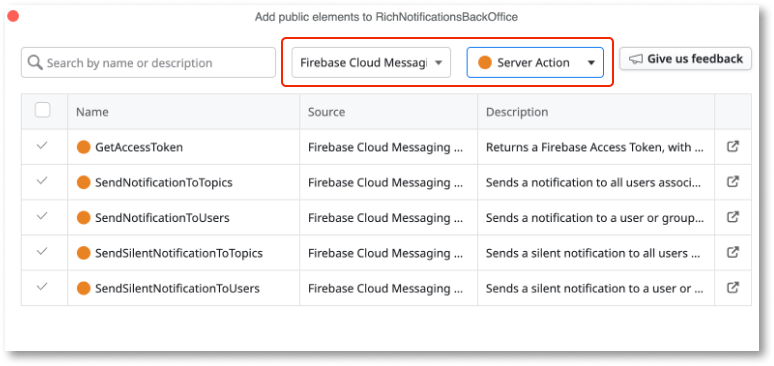
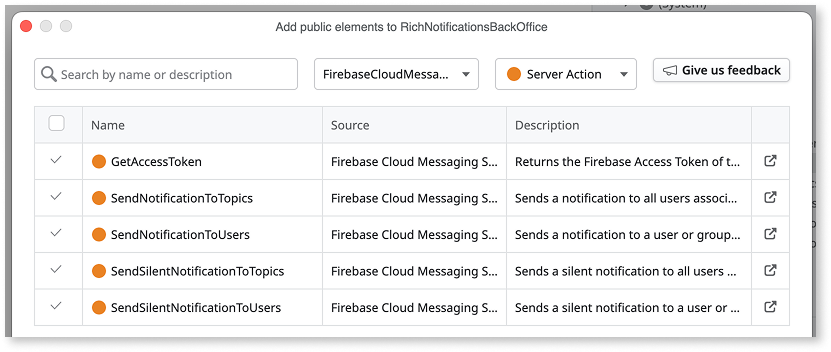
TK-19368 feat: add info about new Firebase Cloud Messaging Server Actions library

diff --git a/src/eap/integration-with-systems/mobile-plugins/firebase-plugin/firebase-cloud-messaging-plugin-server-action.md b/src/eap/integration-with-systems/mobile-plugins/firebase-plugin/firebase-cloud-messaging-plugin-server-action.md
@@ -1,10 +1,10 @@
 ---
-summary: Learn how to implement and manage Firebase Cloud Messaging in OutSystems Developer Cloud (ODC) for enhanced mobile app notifications.
+summary: Learn how to implement and manage Firebase Cloud Messaging in OutSystems Developer Cloud (ODC) for mobile app notifications.
 tags: firebase, notifications, mobile app development, push notifications, plugin integration
 locale: en-us
 guid: a8f7486e-a655-4da7-bed6-37d6867166b2
 app_type: mobile apps
-figma: https://www.figma.com/file/6G4tyYswfWPn5uJPDlBpvp/Building-apps?type=design&node-id=5002%3A165&mode=design&t=qrb6BRX1TGRFDKu7-1
+figma: https://www.figma.com/design/6G4tyYswfWPn5uJPDlBpvp/Building-apps?node-id=5002-165
 platform-version: odc
 audience:
   - mobile developers
@@ -21,31 +21,27 @@ coverage-type:
 
 <div class="info" markdown="1">
 
-This article applies only to Firebase Cloud Messaging plugin version 1.0.0 and newer. The newer versions use [server actions](#server-actions-reference) to manage the notifications.
+This article applies only to Firebase Cloud Messaging plugin version 1.0.0 and newer. The newer versions use [server actions](#server-actions-reference) to manage the notifications. From plugin version `3.0.0` onwards, the server actions are no longer part of the plugin. They have been moved to a separate library called **Firebase Cloud Messaging Server Actions**, available on Forge.
 
-If you are still using Firebase Cloud Messaging plugin version 0.1.2 and older, OutSystems recommends that you migrate to version 1.0.0 and newer by June 2024.
+If you are still using Firebase Cloud Messaging plugin version 0.1.2 and older, OutSystems recommends that you migrate to version 1.0.0 and newer.
 
 </div>
 
-The [Firebase Cloud Messaging plugin](https://www.outsystems.com/forge/component-overview/12174/cloud-messaging-plugin-firebase) allows you to set a notification experience that starts the Firebase cross-platform messaging solution. This plugin lets you send normal and silent notifications to your mobile app users. Normal notifications can include customizable actions and sounds.
-
-Normal notifications have a UI that displays visual and auditory cues. The cues either display in the app's notifications area or in the app's scope. Silent notifications don't display any visual cues. Notifications can deliver a data package to the app (called extra data) in the form of a key-value pairs list.
-
-OutSystems also has notification features you can use to create custom actions and custom sounds.
+The **Firebase Cloud Messaging plugin** allows you to set a notification experience that starts the Firebase cross-platform messaging solution. This plugin lets you send normal and silent notifications to your mobile app users. Normal notifications can include customizable actions and sounds.
 
 <div class="info" markdown="1">
 
-You can install the Firebase Cloud Messaging Plugin from the Forge in ODC Portal.
+You can install the Firebase Cloud Messaging plugin from the Forge in ODC Portal.
 
 </div>
 
-Normal notifications have a UI that displays visual and auditory cues. The cues either display in the notifications area of the app or in the scope of the app. Silent notifications don't display any visual cues. Notifications can deliver a data package to the app (called extra data) in the form of a key-value pairs list.
+Normal notifications have a UI that displays visual and auditory cues. The cues either display in the notifications area of the app or in the scope of the app. Silent notifications don't display any visual cues. Notifications can deliver a data package to the app (called extra data). This data takes the form of a key-value pairs list.
 
 OutSystems also has notification features you can use to create custom actions and custom sounds.  
 
 Following is a high-level process describing how to implement and manage the notifications of your OutSystems app.
 
-1. Use the **Firebase Cloud Messaging Plugin’s Server Actions** to set up a back-end notification service.
+1. Use the **Firebase Cloud Messaging Server Actions** library to set up a back-end notification service.
 
 1. Use the **Firebase Cloud Messaging Plugin's Client Actions** to implement basic notification functions in your app.
 
@@ -79,7 +75,7 @@ This sample app shows you how to do the following:
 
 The following steps describe how to create a back-end notification service and how to prepare a mobile app to respond with push notifications:
 
-1. [Set up a back-end notification service using the send Notifications Server Actions](#set-up-a-back-end-notification-service).
+1. [Set up a back-end notification service using the Firebase Cloud Messaging Server Actions library](#set-up-a-back-end-notification-service).
 
 1. [Enable basic notification functions in your app using the plugin's actions](#enable-basic-notification-functions-in-your-app).
 
@@ -101,23 +97,20 @@ The following steps describe how to create a back-end notification service and h
 
 The Cloud Messaging Configurator, version 0.1.2 and older, is deprecated. For more information, see [Firebase Cloud Messaging HTTP protocol](https://firebase.google.com/docs/cloud-messaging/http-server-ref). This means the **v2** and **v1** endpoints are no longer functional.
 
-The Cloud Messaging Configurator's REST APIs have been replaced by server actions available on the Firebase Cloud Messaging Plugin. If you are consuming these APIs, they must be replaced with the server actions as soon as possible.
+The Cloud Messaging Configurator's REST APIs have been replaced by server actions available on the Firebase Cloud Messaging Plugin until version `2.3.5`. Starting on version `3.0.0`, they were removed from the plugin and are available in the Firebase Cloud Messaging Server Actions instead. If you are still consuming the REST APIs, they must be replaced with the server actions as soon as possible.
 
 </div>
 
 To set up a back-end notification service, do the following:
 
-1. Install the **Cloud Messaging Plugin** Forge component in your environment.
-    This component includes four **Server Actions** that send notifications to a list of users or topics and one **Server Action** to generate an **Access Token**.
+1. Install the **Firebase Cloud Messaging Server Actions** Forge component in your environment. This component includes four **Server Actions** that send notifications to a list of users or topics. It also includes one **Server Action** to generate an **Access Token**.
 
 1. Create a new app to serve as your backend notification service.
 
-   This app can be a Reactive Web or Mobile app.
+1. In the newly created application, consume the **Firebase Cloud Messaging Server Actions** library. Add the server actions, along with its associated static entities.
 
-1. In the newly created application, consume the **Firebase Cloud Messaging Plugin** and add the server Actions, along with its associated static entities.
-
-   ![Screenshot showing how to import the Server Actions.](images/fcm-server-actions-import.png "Firebase Messaging Cloud Plugin Server Actions Import")
-   ![Screenshot showing how to import the Static Entities.](images/fcm-static-entities-import.png "Firebase Messaging Cloud Plugin Static Entities Import")
+   ![Screenshot showing how to import the Server Actions.](images/fcm-server-actions-import.png "Firebase Cloud Messaging Server Actions Import")
+   ![Screenshot showing how to import the Static Entities.](images/fcm-static-entities-import.png "Firebase Cloud Messaging Server Actions Static Entities Import")
 
 1. Get your Firebase Service Account File via **Firebase Console > Settings > Service Accounts > Generate new private key**
 
@@ -171,11 +164,9 @@ To set up a back-end notification service, do the following:
 
 1. Create the logic to store and manage your Firebase Access Token in the app you just created.
 
-    Call the new server action GetAcessToken and store its return value. This token expires after one hour and, to avoid calling the action GetAccessToken unnecessarily, its value, along with its creation time, should be stored in a Database table. Before calling the server action, check if the token has expired and only then refresh its value.
+    Call the new server action GetAcessToken and store its return value. This token expires after one hour. To avoid calling the action GetAccessToken unnecessarily, store its value and creation time in a Database table. Before calling the server action, check if the token has expired and only then refresh its value.
 
-Now you can start to create the UI for your back-end notification service. For example, to send a notification to a user on the associated Firebase project (using an app with the Cloud Messaging plugin), associate the **SendNotificationToUsers** Server Action to a button and add logic to retrieve your Service Account file.
-
-If you want to send the notification to specific users, note that these are identified by their Firebase Token, that can be obtained with the **GetToken** client action. You can find this ID on the Firebase Project Settings under the Cloud Messaging tab.
+Now you can start to create the UI for your back-end notification service. If you want to send the notification to specific users, note that these are identified by their Firebase Token, that can be obtained with the **GetToken** client action of the **Firebase Cloud Messaging Plugin**.
 
 To send a notification to all users, or to all Android or iOS users, you need to fill the **SenderID** structure attribute of the **SendRequest** parameter. You can find this ID on the Firebase Project Settings under the Cloud Messaging tab.
 
@@ -193,7 +184,7 @@ For topic notifications (**SendNotificationToTopics**, **SendSilentNotificationT
 
 <div class="info" markdown="1">
 
-Starting from Firebase Cloud Messaging Plugin version 0.1.3 and onwards, sending notifications to an unlimited list of users is not supported.
+From Firebase Cloud Messaging plugin version 0.1.3 onwards, sending notifications to more than 100 users in a single request is not supported. This limitation also applies to the Firebase Cloud Messaging Server Actions library.
 
 </div>
 
@@ -204,7 +195,9 @@ Both server actions have a limit of 100 users (**SendToUsers** parameter), throw
 Inside a Timer, you can iterate over your user list and send notifications to up to 100 users at a time.
 
 <div class="info" markdown="1">
+
 To learn more about how to use Timers, see the [documentation](https://success.outsystems.com/documentation/outsystems_developer_cloud/building_apps/use_timers/).
+
 </div>
 
 ## Enable basic notification functions in your app
@@ -253,7 +246,7 @@ Finally, you might want to give the opportunity to your user to clear all the ap
 
 ### Enable notifications with custom actions
 
-To enhance your notification with custom actions you must use the **Plugin's Server Actions**, using the **ActionList** parameter inside the Notification parameter on the **SendNotificationToTopics** or **SendNotificationToUsers** Server Actions.
+To enhance your notification with custom actions you must use the **Firebase Cloud Messaging Server Actions** library, using the **ActionList** parameter inside the **Notification** parameter on the **SendNotificationToTopics** or **SendNotificationToUsers** Server Actions.
 
 We offer the following types of custom actions:
 
@@ -269,13 +262,13 @@ We offer the following types of custom actions:
 
 ### Enable notifications with custom sounds
 
-To enhance your notification with custom sounds,  follow these steps:
+To enhance your notification with custom sounds, follow these steps:
 
 1. Put the .wav files you want to use as notification sounds into a .zip file called **sounds.zip**.
 
 1. Upload the .zip file to the app’s Resources folder.
 
-1. Use the **Plugin's Server Actions**, using the **Sound** parameter inside the **Notification** parameter on the **SendNotificationToTopics** or **SendNotificationToUsers methods**.
+1. Use the **Firebase Cloud Messaging Server Actions** library, using the **Sound** parameter inside the **Notification** parameter on the **SendNotificationToTopics** or **SendNotificationToUsers** methods.
 
 It is important to note the following requirements for custom sounds:
 
@@ -290,11 +283,11 @@ It is important to note the following requirements for custom sounds:
 By default, a Cloud Messaging notification uses the app's launcher icon as the notification icon. However, for **Android** notifications, you can also define a custom icon and a custom icon color.
 To setup a custom icon and custom icon color for Android notifications, follow these steps:
 
-1. Upload your custom icon (and it's various resolutions) to the resources of your application
+1. Upload your custom icon (and it's various resolutions) to the resources of your mobile app
 
     ![Screenshot showing the different custom icon resolutions in application's Resources](images/firebase-messaging-custom-icon-resources-odcs.png "Custom Android Icon Resources")
 
-1. Update the Application's Extensibility Configuration JSON so that the different icon resolutions are added to their correct paths
+1. Update the application's Extensibility Configuration JSON so that the different icon resolutions are added to their correct paths
 
 (Recommended) Using the universal extensibility configurations schema:
 
@@ -363,7 +356,7 @@ Using the Cordova-based extensibiility configurations schema (for MABS versions 
 
 Note that you can only use the Cordova-based extensibility for MABS versions lower than 12. It won't work on MABS 12.
 
-1. In your push notification request, either via the plugin's `SendNotificationToUsers` or `SendNotificationToTopic` Server Actions, specify the custom icon and color
+1. In your push notification request, either via the `SendNotificationToUsers` or `SendNotificationToTopic` server actions available in the Firebase Cloud Messaging Server Actions library, specify the custom icon and color in the **Android** attribute.
 
     ![Screenshot showing Android notification configuration](images/fcm-custom-android-notification-odcs.png "Custom Android Icon and Color Configuration")
 
@@ -392,7 +385,7 @@ Add this block to each screen that might handle the notification content.
 
 When the end-user clicks on a notification in the notification center, the app opens by default. If you want your app to handle the notification click, you can use the **NotificationsHandler** block and define a handler for the **NotificationClicked** event.
 
-If you want to navigate to a screen inside your app when the end-user clicks on a notification, you can use the **BuildInternalDeepLink** client action from the plugin. You should pass the name of the destination screen to the **Notification > DeepLink** attribute of the **SendRequest** parameter of the server action you called to deliver the notification (**SendNotificationToUsers** or **SendNotificationToTopics**). If you want the **BuildInternalDeepLink** action to build a deep link with query parameters, you should set the **key-value** pairs using the **ExtraDataList** attribute.
+If you want to navigate to a screen inside your app when the end-user clicks on a notification, you can use the **BuildInternalDeepLink** client action from the plugin. You should pass the name of the destination screen to the **Notification > DeepLink** attribute of the **SendRequest** parameter of the server action you called to send the notification (**SendNotificationToUsers** or **SendNotificationToTopics**). If you want the **BuildInternalDeepLink** action to build a deep link with query parameters, you should set the **key-value** pairs using the **ExtraDataList** attribute.
 
 Our Sample App has this scenario implemented. If you want your app to do something else when the end-user clicks on a notification, simply implement your logic in the handler you create for the **NotificationClicked** event.
 
@@ -402,7 +395,7 @@ When sending a notification with a deep link, you should avoid using the followi
 
 </div>
 
-## Optional setup for notification Channel Name and Description - Android only
+## Optional setup for notification channel name and description - Android only
 
 <div class="info" markdown="1">
 
@@ -410,7 +403,7 @@ This setup is specific to Cordova. Refer to [the Capacitor section](#using-the-p
 
 </div>
 
-By default, the Cloud Messaging plugin defines values for the notification channel name and description on local notifications. But in some instances, you might want to define a different default value by adding the following name and value properties on the extensibility configurations of your app.
+By default, the Cloud Messaging plugin defines values for the notification channel name and description on local notifications. However, in some instances, you might want to define a different default value. You can do this by adding the following name and value properties on the extensibility configurations of your app.
 
 (Recommended) Using the universal extensibility configurations schema:
 
@@ -462,7 +455,7 @@ This setup is specific to Cordova. Refer to [the Capacitor section](#using-the-p
 
 </div>
 
-If you plan on having push notifications that link to other iOS apps (e.g. a push notification that when clicked opens Google Maps mobile app), then you'll need to provide what are the schemes you'll plan to use. You can do that by providing a list of comma-separated values on the extensibility configurations of your app.
+If you plan on having push notifications that link to other iOS apps (for example, a push notification that when clicked opens Google Maps mobile app), you need to provide the schemes you plan to use. You can do that by providing a list of comma-separated values on the extensibility configurations of your app.
 
 (Recommended) Using the universal extensibility configurations schema:
 
@@ -501,7 +494,7 @@ Note that you can only use the Cordova-based extensibility for MABS versions low
 
 If you want to update the notification channel name and description on Android for Capacitor apps, you should set the **NotificationChannelDefaultName** and **NotificationChannelDefaultDescription** extensibility settings on your application’s detail page on the ODC Portal, under the Mobile distribution tab.
 
-If you want to allow specific custom schemes when clicking push notifications (equivalent to Cordova's **APPLICATION_SCHEMES**), you should use a build action. To configure the build action, follow these steps:
+If you want to allow specific custom schemes when clicking push notifications (equivalent to Cordova's **APPLICATION_SCHEMES**), use a build action. Follow these steps to configure the build action:
 
 1. Create a .json file to configure the build action to add the **LSApplicationQueriesSchemes** key to your app's **Info.plist** file, like this example below:
 
@@ -526,7 +519,7 @@ If you want to allow specific custom schemes when clicking push notifications (e
         }
         ```
 
-1. Then, in your app, go to the Resources folder in the Data tab and import a new resource: your .json file. Set the “Deploy Action” to “Deploy to Target Directory".
+1. In your app, go to the Resources folder in the Data tab and import a new resource: your .json file. Set the "Deploy Action" to "Deploy to Target Directory".
 
 1. Finally, include the file in your app’s Extensibility Configurations, like so:
 
@@ -561,9 +554,9 @@ The feature is disabled by default. To enable it, `SetDeliveryMetricsExportToBig
 
 ## Authenticate push notification requests to FCM HTTP v1 API
 
-Firebase Cloud Messaging offers a variety of uses cases with their HTTP v1 API which aren't covered by the Cloud Messaging Plugin's Server Actions, and as they can be very use-case specific, these Server Actions won't ever fully cover 100% of the HTTP v1 API.
+Firebase Cloud Messaging offers a variety of uses cases with their HTTP v1 API which aren't covered by the Server Actions offered in the Firebase Cloud Messaging Server Actions library (and until version `2.3.5` of the Firebase Cloud Messaging Plugin), and as they can be very use-case specific. As such, our Server Actions won't ever fully cover 100% of the HTTP v1 API.
 
-Nevertheless, starting from version `2.2.0` of the plugin, it's possible to use the token generated with the `GetAccessToken` Server Action to authenticate requests for Firebase's HTTP v1 API.
+Nevertheless, starting from version `2.2.0` of the plugin, you can use the token generated with the `GetAccessToken` Server Action to authenticate requests for Firebase's HTTP v1 API. Note that starting on version `3.0.0` of the plugin, this server action has been moved to the Firebase Cloud Messaging Server Actions library.
 
 <div class="info" markdown="1">
 
@@ -642,7 +635,7 @@ For both iOS and Android.
 
 Firebase SDKs for Android and iOS don't support subscribing to topics if the name contains spaces, like `TV Shows`.
 
-### On Transitive Dependencies
+### On transitive dependencies
 
 Starting on version 4.0.0 of the plugin, builds of your app can fail if:
 
